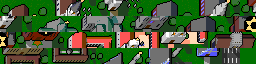
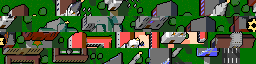
Synagogue: shrink the front Star of David so the gable shows around it
The type 4 facade star (and its dark round backing) dominated the
building. The hand-placed motif is now 75% of the previous radius
(6.0 instead of 8.0), with the backing scaled to match, so the peaked
gable reads around the star. It stays a clear six-pointed Star of David
of two interlocking triangles at game zoom in Classic, SVGA and Spooky.
Nothing else about the synagogue changes.

diff --git a/art/churches/make_churches.py b/art/churches/make_churches.py
@@ -805,7 +805,7 @@ def stamp_star_motif(keys, cx, cy, radius):
     # Apex toward the top of the sheet (smaller y).
     up = ((cx, cy - r), (cx - r * 0.866025, cy + r * 0.5), (cx + r * 0.866025, cy + r * 0.5))
     dn = ((cx, cy + r), (cx - r * 0.866025, cy - r * 0.5), (cx + r * 0.866025, cy - r * 0.5))
-    back_r = r + 2.4
+    back_r = r + 1.8
     x0, x1 = int(cx - back_r) - 1, int(cx + back_r) + 2
     y0, y1 = int(cy - back_r) - 1, int(cy + back_r) + 2
     for y in range(max(0, y0), min(S, y1)):
@@ -837,7 +837,7 @@ def build(number, draw):
     if number == 4:
         # Screen position of the frontispiece, measured from the 3/4 projection
         # of its centre, then nudged so the star sits on the gable face.
-        stamp_star_motif(keys, 30, 25.5, 8.0)
+        stamp_star_motif(keys, 30, 25.5, 6.0)
     return keys
 
 
